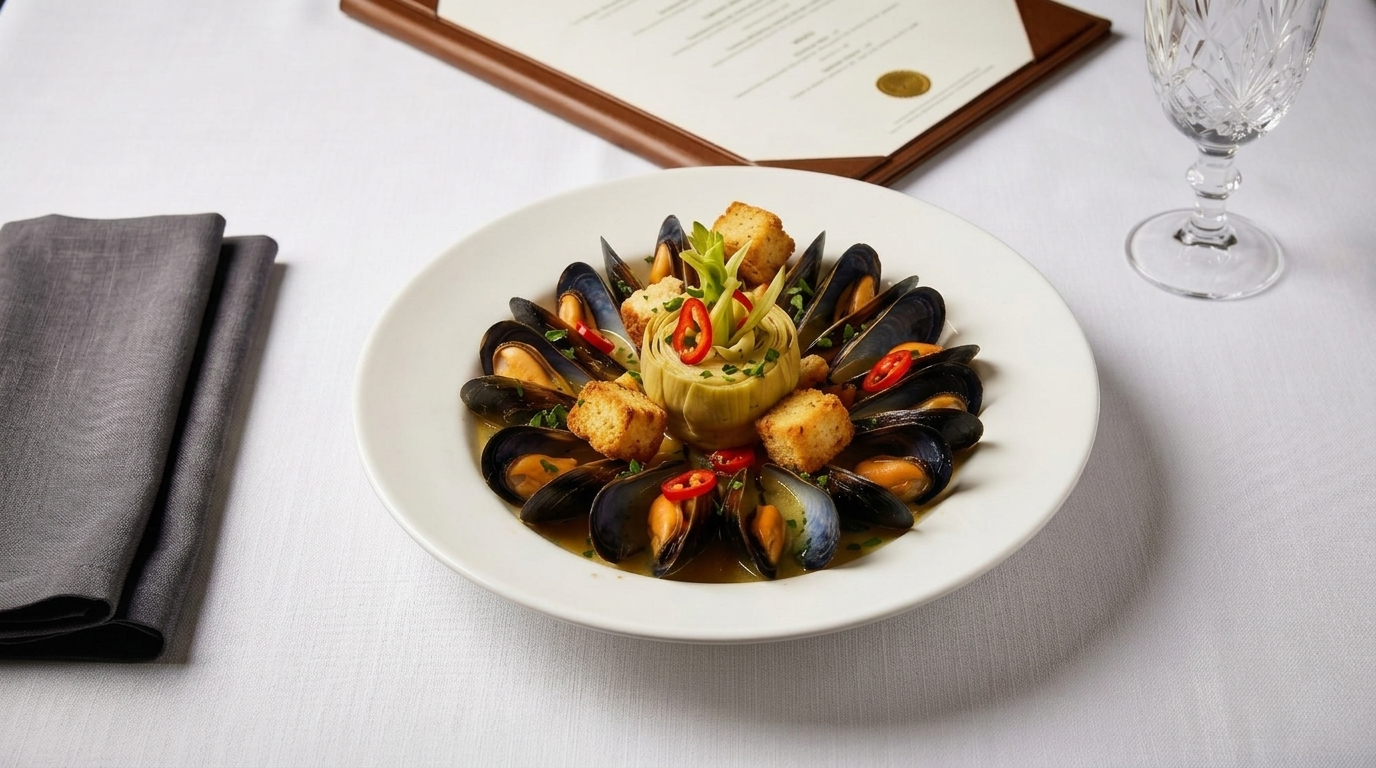
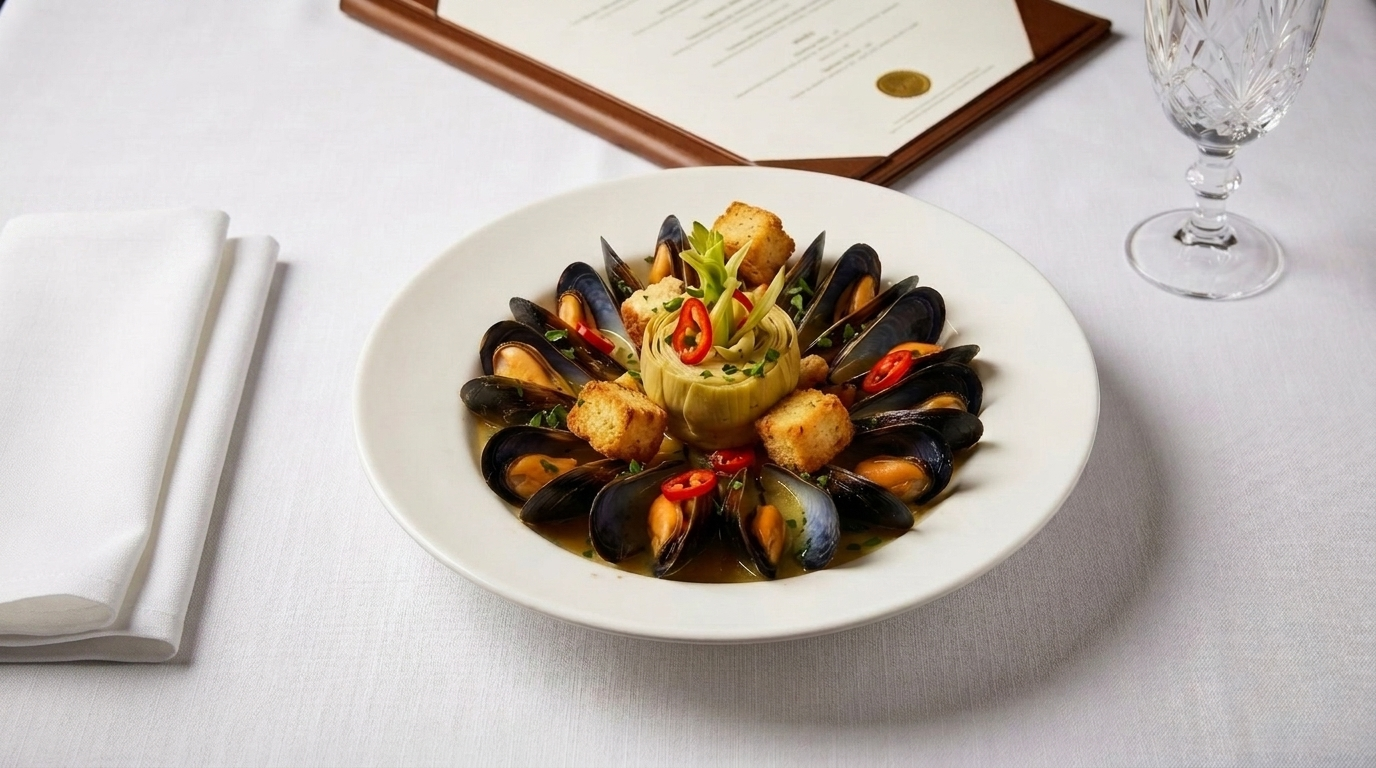
Update napkins to crisp white linen in food gallery photos (lobster, mussels, steak)

Changed region(s): [[0.0, 0.25, 0.2188, 0.9062]]

diff --git a/scratch/check_dim_steak.py b/scratch/check_dim_steak.py
@@ -1,0 +1,10 @@
+from PIL import Image
+import os
+
+path = r"C:\Users\phill\.gemini\antigravity\scratch\cafe-de-marco-website\public\images\gallery_steak_mushrooms.jpg"
+if os.path.exists(path):
+    with Image.open(path) as img:
+        print("Dimensions:", img.size)
+        print("Aspect ratio:", img.size[0] / img.size[1])
+else:
+    print("Not found")
